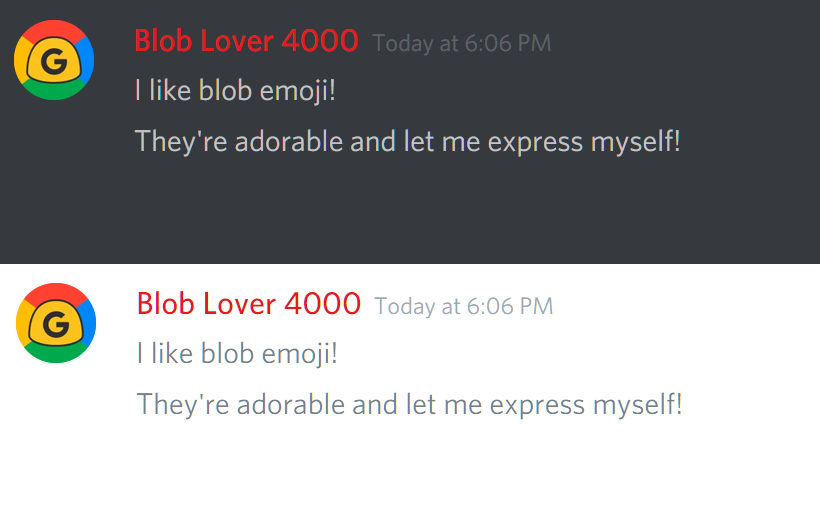
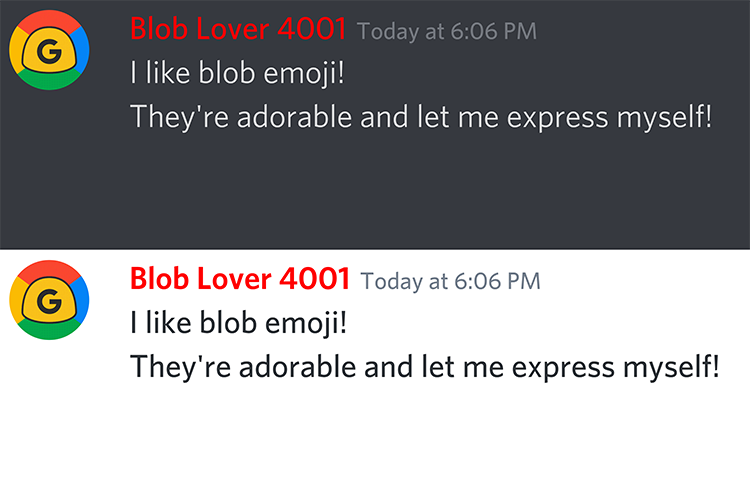
Update test image for new light theme and emote sizes

Changed region(s): [[0.0, 0.48, 1.0, 0.81], [0.1533, 0.03, 0.9507, 0.3], [0.0, 0.0, 0.1227, 0.21]]

diff --git a/queuebot/cogs/queue/__init__.py b/queuebot/cogs/queue/__init__.py
@@ -545,18 +545,18 @@ class BlobQueue(Cog):
             normalized = emoji_image.convert("RGBA").resize(new_sizing, Image.ANTIALIAS)
             bounding.paste(normalized, placement, mask=normalized)
 
-            larger = bounding.resize((64, 64), Image.ANTIALIAS)
+            larger = bounding.resize((96, 96), Image.ANTIALIAS)
             smaller = bounding.resize((44, 44), Image.ANTIALIAS)
 
-        background_im = Image.open(path.join(path.dirname(__file__), "test_base.png"))
+        with Image.open(path.join(path.dirname(__file__), "test_base.png")) as background_im:
 
-        background_im.paste(smaller, (346, 68), mask=smaller)
-        background_im.paste(larger, (137, 169), mask=larger)
+            background_im.paste(smaller, (367, 50), mask=smaller)
+            background_im.paste(larger, (129, 138), mask=larger)
 
-        background_im.paste(smaller, (348, 331), mask=smaller)
-        background_im.paste(larger, (139, 432), mask=larger)
+            background_im.paste(smaller, (369, 300), mask=smaller)
+            background_im.paste(larger, (129, 388), mask=larger)
 
-        return background_im.resize((410, 259), Image.ANTIALIAS)
+            return background_im.resize((375, 250), Image.ANTIALIAS)
 
     def test_backend(self, emoji_image: Image.Image):
         """Produce theme testing image for a given emoji."""
